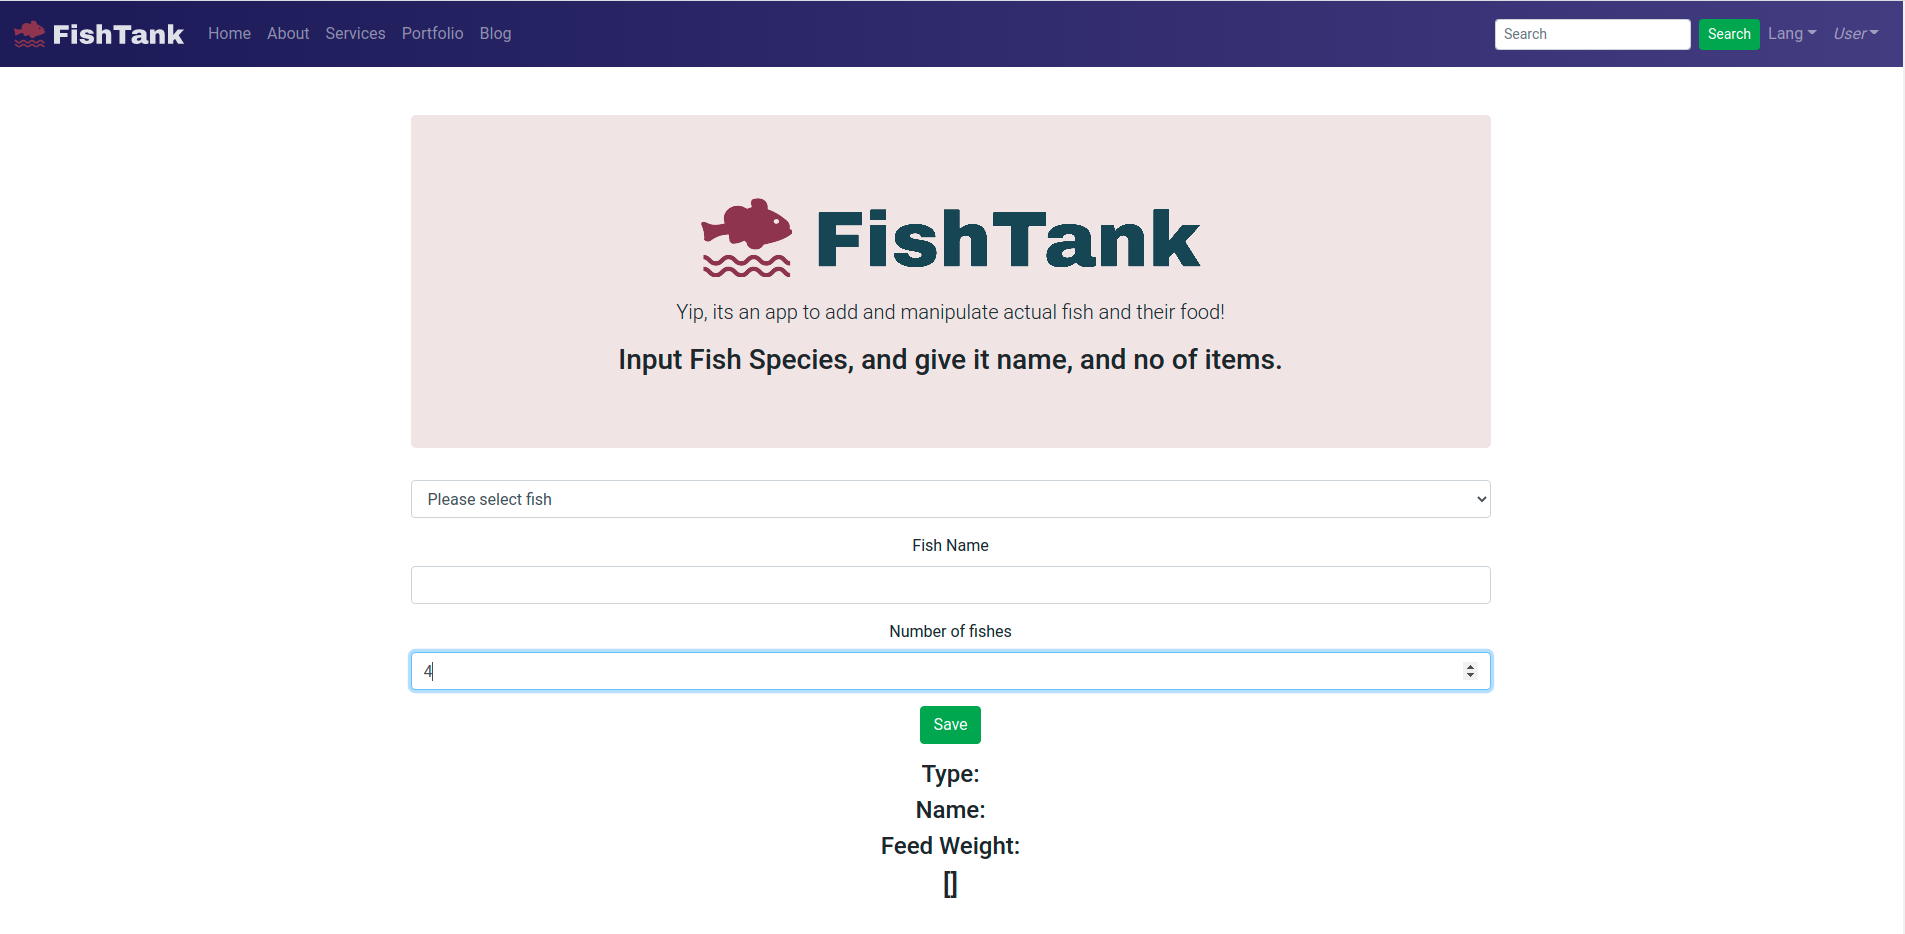
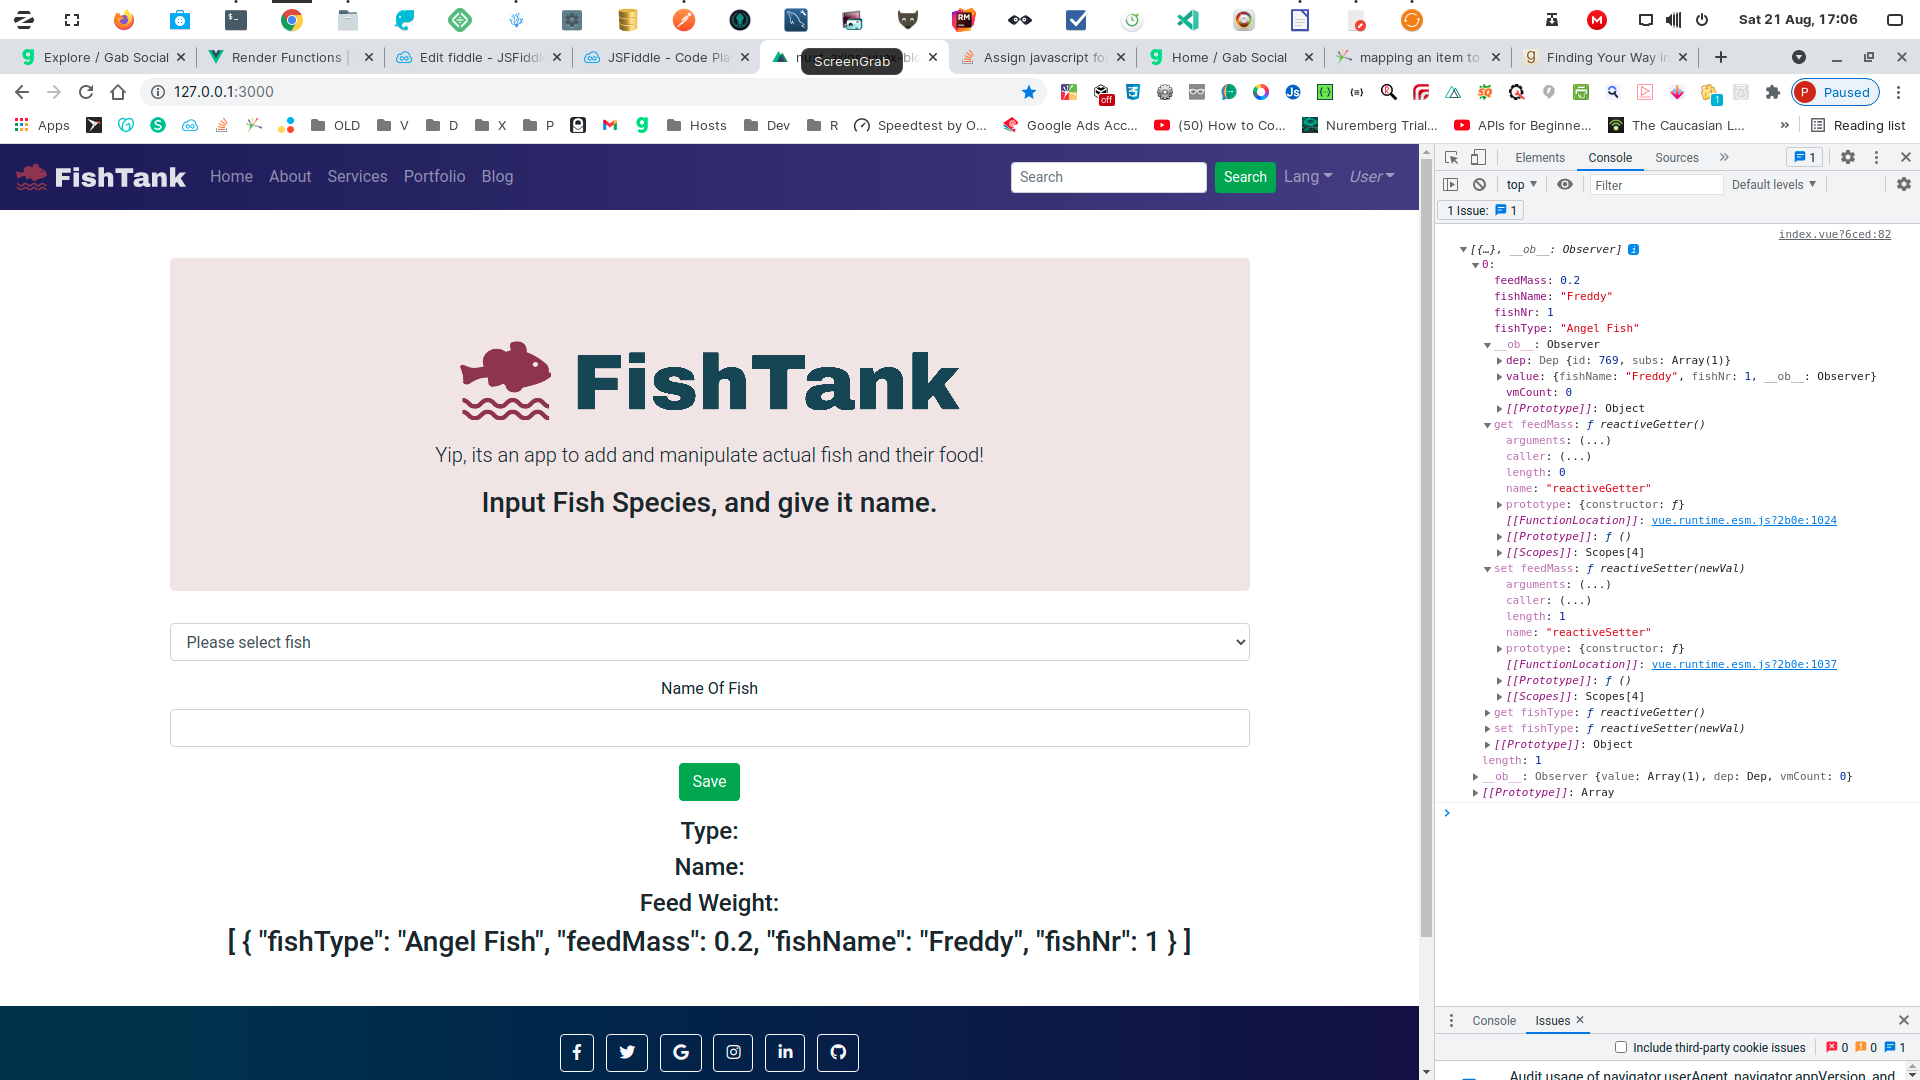
Update

diff --git a/pages/index.vue b/pages/index.vue
@@ -2,13 +2,13 @@
   <div class="container h-100">
     <div class="row h-100">
       <div class="col-12 mx-auto">
-        <div class="jumbotron text-center mt-5" v-bind:class="Tank">
+        <div class="jumbotron text-center mt-5">
        <a href="https://www.xhostcom.com" target="_blank" title="Fish">
                                         <img src="@/assets/img/logo_small.png" alt="Fish">
    </a>
    <p class="lead">Yip, its an app to add and manipulate actual fish and their food!</p>
    <h3>
-   Input Fish Species, and give it name, and no of items.
+   Input Fish Species, and give it name.
    </h3>
    </div>
    <div class="mb-5">
@@ -23,16 +23,16 @@
   <label for="name">Name Of Fish</label>
     <input id="name" type="text" class="form-control" v-model="fishName">
      </div>
-    <div class="form-group">
-    <label for="nr">Number of fishes</label>
     <input id="nr" type="hidden" class="form-control" v-model="fishNr">
-    </div>
     <button class="btn btn-success mb-3" @click.prevent="getFormValues ()">
     Save
   </button>
+   <button class="btn btn-secondary mb-3" @click.prevent="pushApi()">
+    Send To Api
+  </button>
   </form>
    <h4>Type: {{ selectedFish.fishType }}</h4>
-   <h4>Name: {{ fishe }}</h4>
+   <h4>Name: {{ fish }}</h4>
    <h4>Feed Weight: {{ selectedFish.feedMass }}</h4>
    <h4 v-if ="selectedFish.feedMass">
    Total: {{ selectedFish.feedMass * fishNr }}
@@ -82,8 +82,14 @@ export default {
       this.selectedFish = ''
       this.fishName = ''
       this.fishNr = 1
-    }
+      console.log(this.tank)
+      this.pushApi();
+  },
+  pushApi() {
+    
   }
+ 
+}
 }
 
 </script>

diff --git a/utils/api/tankPost.js b/utils/api/tankPost.js
@@ -1,0 +1,12 @@
+import axios from 'axios';
+
+const tankPost = (data) => {
+  //example api to post fish data to, just returns back the JSON that was sent, can be viewed i the console.
+  axios.post(`https://jsonplaceholder.typicode.com/users`, { data })
+    .then(res => {
+      console.log(res);
+      console.log(res.data);
+    })
+};
+
+export default tankPost;
